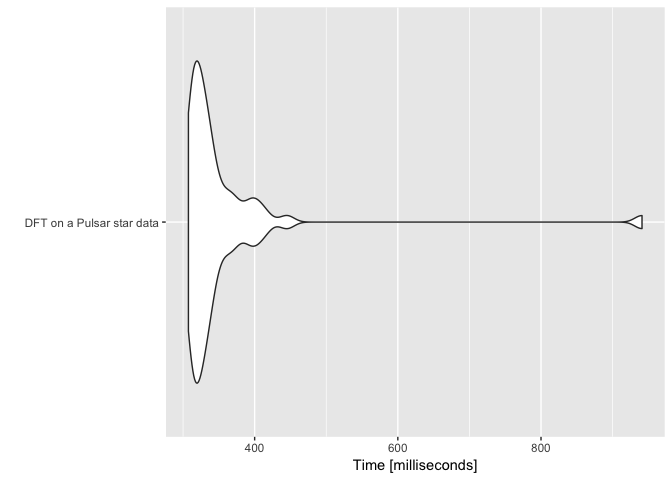
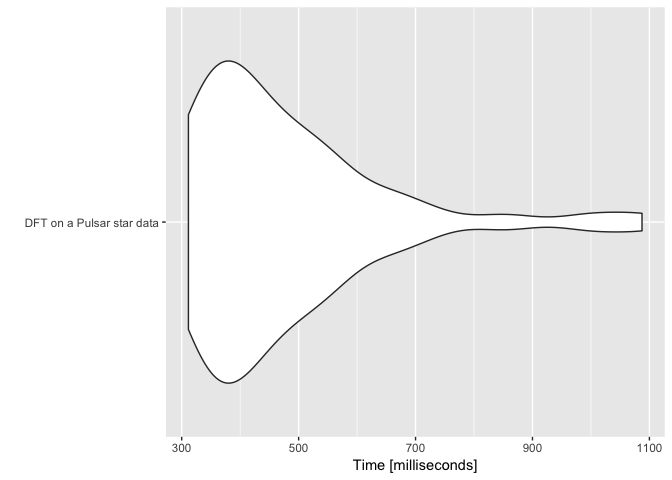
Documentation and readme are linked

diff --git a/docs/Experiments.md b/docs/Experiments.md
@@ -30,7 +30,7 @@ Choose:
 -   dataFlag = F, to use a real pulsar photometry
 
 ``` r
-dataFlag = F
+dataFlag = T
 ```
 
 Data generation
@@ -116,31 +116,29 @@ result <- process(
 ```
 
     ## ::: Debug information :::
-    ## Number of frequences to be processed: 43372
-    ## Number of frequences after drop the g regimen: 21686
-    ## Sorted frecuences:  264.505 264.113 260.586 264.897 263.721
-    ## Range:  30 60 65058
+    ## Number of frequences to be processed: 101
+    ## Number of frequences after drop the g regimen: 50
+    ## Sorted frecuences:  1.83352 1.94811 1.71892 2.06271 1.60433
+    ## Range:  30 50
     ##  Iteration over range: 30
     ##    Frequencies selected: 30
-    ##       264.505 264.113 260.586 264.897 263.721 265.288 268.423 263.329 256.668 251.965 265.68 252.749 268.815 261.762 262.154 268.031 269.207 271.95 272.342 261.37 272.734 275.869 248.83 279.787 266.856 267.248 260.978 252.357 262.937 273.126
+    ##       1.83352 1.94811 1.71892 2.06271 1.60433 2.1773 1.48973 2.2919 2.40649 1.37514 2.52109 2.63568 1.26054 2.75028 2.86487 2.97946 1.14595 3.09406 3.20865 3.32325 1.03135 3.43784 3.55244 3.66703 3.78163 0.916758 3.89622 4.01082 4.12541 4.24001
     ##    Amplitudes selected:  30
-    ##       2.18044 0.514798 0.512875 0.489923 0.370046 0.343731 0.263693 0.263439 0.251894 0.221904 0.221506 0.184744 0.164693 0.159859 0.128805 0.128227 0.123996 0.112269 0.112108 0.111359 0.102007 0.101112 0.0864705 0.0853575 0.0775335 0.0771803 0.0752433 0.0750696 0.0734555 0.0722236
-    ##     Dnu: 1.0198
-    ##     Dnu Peak: 3.9304
-    ##     Dnu Guess: 82.9435
-    ##  Iteration over range: 60
-    ##     Nothing to do
-    ##  Iteration over range: 65058
+    ##       0.998384 0.0830948 0.0671104 0.041144 0.0335765 0.0278634 0.0218368 0.0213431 0.0174669 0.0158437 0.0148973 0.013069 0.0121994 0.0117024 0.010643 0.00979842 0.00974385 0.00911032 0.00853982 0.00806009 0.0079736 0.00765199 0.00730153 0.00699825 0.00673414 0.00663567 0.00650302 0.0063 0.00612121 0.00596351
+    ##     Dnu: 2.0098
+    ##     Dnu Peak: 2.0098
+    ##     Dnu Guess: 0.305586
+    ##  Iteration over range: 50
     ##     Nothing to do
 
 #### Main results
 
--   **Dnu** (`result$dnu`) = 1.0198.
--   **DnuGuess** `(result$dnuGuess`) = 82.9434636.
--   **DnuPeak** (`result$dnuPeak`) = 3.9304.
--   **Frequency** (`result$photometry$frequency`) = 264.5047462, 264.1128873, 260.5861574, 264.8966051, 263.7210285, 265.288464, 268.4233351, 263.3291696, 256.6675686, 251.965262, 265.6803229, 252.7489797, 268.8151939, 261.761734, 262.1535929, 268.0314762, 269.2070528, 271.950065, 272.3419239, 261.3698752, 272.7337828, 275.8686538, 248.8303909, 279.7872427, 266.8558995...
--   **Amplitude** (`result$photometry$amplitude`) = 2.1804436, 0.5147979, 0.5128749, 0.4899226, 0.370046, 0.3437311, 0.2636926, 0.2634394, 0.2518944, 0.2219042, 0.2215065, 0.1847437, 0.1646934, 0.1598589, 0.128805, 0.1282273, 0.1239962, 0.1122691, 0.1121075, 0.1113586, 0.1020067, 0.1011121, 0.0864705, 0.0853575, 0.0775335...
--   **Diffs** (`result$diffHistogram$diffs`) = 0.3918589, 3.9185888, 0.3918589, 0.7837178, 0.7837178, 3.9185888, 1.1755766, 7.8371777, 12.5394843, 1.1755766, 11.7557665, 4.3104477, 2.7430122, 2.3511533, 3.5267299, 4.7023066, 7.4453188, 7.8371777, 3.1348711, 8.2290365, 11.3639076, 15.6743553, 15.2824964, 2.3511533, 2.7430122...
+-   **Dnu** (`result$dnu`) = 2.0098.
+-   **DnuGuess** `(result$dnuGuess`) = 0.3055861.
+-   **DnuPeak** (`result$dnuPeak`) = 2.0098.
+-   **Frequency** (`result$photometry$frequency`) = 1.8335167, 1.9481115, 1.7189219, 2.0627063, 1.6043271, 2.1773011, 1.4897323, 2.2918959, 2.4064906, 1.3751375, 2.5210854, 2.6356802, 1.2605427, 2.750275, 2.8648698, 2.9794646, 1.1459479, 3.0940594, 3.2086542, 3.323249, 1.0313531, 3.4378438, 3.5524386, 3.6670334, 3.7816282...
+-   **Amplitude** (`result$photometry$amplitude`) = 0.9983844, 0.0830948, 0.0671104, 0.041144, 0.0335765, 0.0278634, 0.0218368, 0.0213431, 0.0174669, 0.0158437, 0.0148973, 0.013069, 0.0121994, 0.0117024, 0.010643, 0.0097984, 0.0097439, 0.0091103, 0.0085398, 0.0080601, 0.0079736, 0.007652, 0.0073015, 0.0069982, 0.0067341...
+-   **Diffs** (`result$diffHistogram$diffs`) = 0.1145948, 0.1145948, 0.2291896, 0.2291896, 0.3437844, 0.3437844, 0.4583792, 0.572974, 0.4583792, 0.6875688, 0.8021635, 0.572974, 0.9167583, 1.0313531, 1.1459479, 0.6875688, 1.2605427, 1.3751375, 1.4897323, 0.8021635, 1.6043271, 1.7189219, 1.8335167, 1.9481115, 0.9167583...
 
 #### Apodization
 

diff --git a/README.md b/README.md
@@ -13,4 +13,4 @@ Variable Star package provides the main funtions to analized patterns on variabl
 Example of use on a pulsar data
 -------------------------------
 
-Please, find [here](docs/Experiments.md)
+Please, find [here](docs/Experiments.md) the main execution of the complete package procedure.
